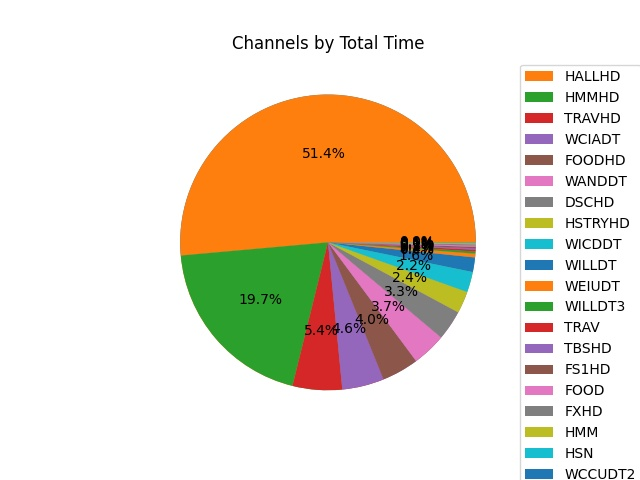
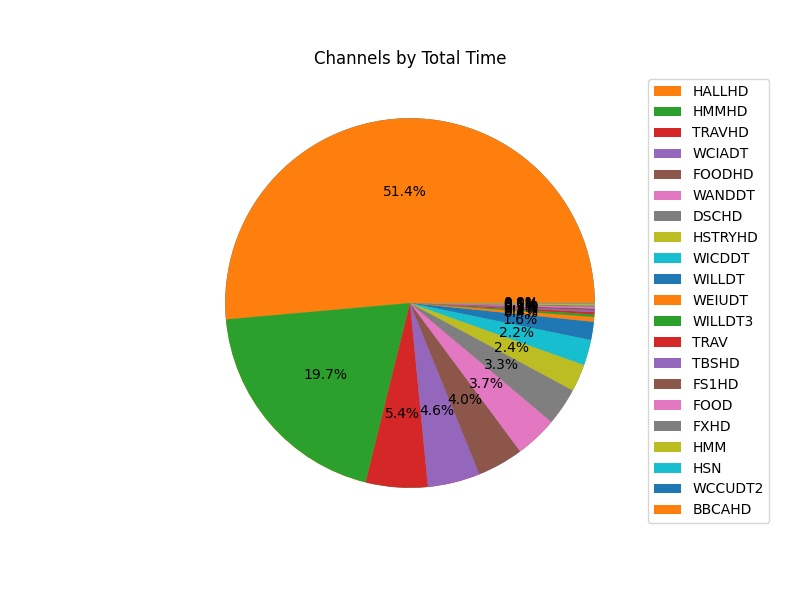
Update graph sizes

diff --git a/dvrmediaanalysis.py b/dvrmediaanalysis.py
@@ -149,12 +149,13 @@ class MyWindow(QtWidgets.QMainWindow, Ui_MainWindow):
         #Find the height of the bar graph data
         height = self.get_graph_data(new_dataframe, keys)
         #Print Bar chart, bar(x-axis, height)
+        plt.figure(figsize=(7,8))
+        plt.bar(range(len(height)), height)
+        plt.xticks(range(len(height)), keys)
+        plt.xticks(rotation=90)
         plt.xlabel(self.single_graph_labels_dict["X-Label"])
         plt.ylabel(self.single_graph_labels_dict["Y-Label"])
         plt.title(self.single_graph_labels_dict["Title"])
-        plt.xticks(range(len(height)), keys)
-        plt.xticks(rotation=90)
-        plt.bar(range(len(height)), height)
         #Save graph
         self.save_graph(self.single_graph_labels_dict["Title"])
         #self.graph_output_label.setQpixmap(graph_file_name)
@@ -165,10 +166,11 @@ class MyWindow(QtWidgets.QMainWindow, Ui_MainWindow):
         #Find the size of the bar graph data
         size = self.get_graph_data(new_dataframe, keys)
         #Print Pie chart, pie(size, lables)
-        plt.title(self.single_graph_labels_dict["Title"])
+        plt.figure(figsize=(8,6))
         plt.pie(size, autopct='%1.1f%%')
         patches, texts = plt.pie(size)
         plt.legend(patches, keys, bbox_to_anchor=(1,1), loc="upper left")
+        plt.title(self.single_graph_labels_dict["Title"])
         #Save graph
         self.save_graph(self.single_graph_labels_dict["Title"])
         plt.show()
@@ -176,11 +178,12 @@ class MyWindow(QtWidgets.QMainWindow, Ui_MainWindow):
     #Build a stacked bar graph
     def stacked_bar_graph(self, new_dataframe, keys):
         #Plot abd label stacked bar graph
-        new_dataframe.unstack().fillna(0).plot(kind='bar', stacked=True)
+        new_dataframe.unstack().fillna(0).plot(kind='bar', stacked=True, figsize=(13,9))
         plt.xlabel(self.single_graph_labels_dict["X-Label"])
         plt.ylabel(self.single_graph_labels_dict["Y-Label"])
         plt.title(self.single_graph_labels_dict["Title"])
         plt.legend(bbox_to_anchor=(1,1), loc="upper left")
+        
         #Save graph
         self.save_graph(self.single_graph_labels_dict["Title"])
         plt.show()
